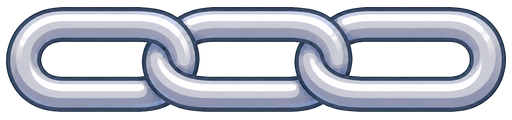
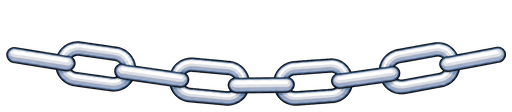
Use sagging seven-link shelf chains

diff --git a/docs/SCENES.md b/docs/SCENES.md
@@ -1692,7 +1692,8 @@ Script:
 
 Purpose:
 - Reusable visual owner instanced as `LockedOverlay` by both standard and dispenser shelves.
-- Draws four slim three-link arms from selected candidate A over a softened shelf shade. Every arm
+- Draws four instances of the selected seven-link C2-7A chain over a softened shelf shade. The art
+  alternates four crosswise and three front-facing links and includes a shallow baked sag. Every arm
   is fitted between an endpoint embedded beneath a side wall and an endpoint over the padlock
   shackle, with small authored per-arm slope differences instead of a perfectly mirrored X.
 - Layers the lock between the chain pairs: `BottomLeftArm` and `BottomRightArm` draw behind it while
@@ -1708,7 +1709,8 @@ Purpose:
 Important nodes:
 - `Shade`: shelf-local darkening layer whose horizontal bounds follow `overlay_half_width`.
 - `VisualRig/ChainRig/TopLeftArm`, `TopRightArm`, `BottomLeftArm`, and `BottomRightArm`: independently
-  fitted instances of `assets/ui/shelf_lock_chain_arm_a.png` running from wall anchors to the lock.
+  fitted instances of C2-7A at legacy path `assets/ui/shelf_lock_chain_arm_a.png`, running from wall
+  anchors to the lock.
 - `VisualRig/WallAttachmentCovers`: reusable left/right wood strips drawn above chain endpoints so
   terminal links disappear beneath the actual shelf frame.
 - `VisualRig/LockRig`: drawn between the bottom and top arm depth layers; contains the lock sprite
@@ -1717,7 +1719,8 @@ Important nodes:
   fitting contract as `AbilityBar/UsesLabel`, positioned above the chain intersection.
 
 Depends on:
-- `assets/ui/shelf_lock_chain_arm_a.png`, prepared from selected ImageGen candidate A with alpha.
+- `assets/ui/shelf_lock_chain_arm_a.png`, the legacy resource path containing selected ImageGen
+  C2-7A, prepared with the ImageGen skill's chroma-key helper and normalized to 512x112.
 - `assets/ui/lock_shelf_cutout.png` for the hanging orange padlock.
 - `assets/themes/style_box_gameplay_count_badge.tres` for the shared remaining-count presentation.
 - `scripts/ui_motion.gd` for replacement-safe tweens.

diff --git a/docs/SCRIPTS.md b/docs/SCRIPTS.md
@@ -1683,10 +1683,11 @@ Purpose:
   shelves, keeping those details out of `scripts/level.gd`.
 - Applies `overlay_half_width` to the shade and `compact_layout` to the chain, lock, and badge rig at
   `_ready()`.
-- Reuses selected candidate A as four independent three-link `Sprite2D` arms. It computes each
-  transform from a fixed wall endpoint and a lock-shackle endpoint, adds small per-arm slope
-  differences, configures overlay-owned wall covers from `overlay_half_width`, and layers the bottom
-  pair behind the lock while the top pair crosses in front.
+- Reuses selected seven-link C2-7A art as four independent `Sprite2D` arms. The texture alternates
+  crosswise/front-facing links and includes a shallow baked sag. The script computes each transform
+  from a fixed wall endpoint and a lock-shackle endpoint, adds small per-arm slope differences,
+  configures overlay-owned wall covers from `overlay_half_width`, and layers the bottom pair behind
+  the lock while the top pair crosses in front.
 - Keeps `AD` and the remaining count scene-native; the count uses the shared ability/inventory badge
   resource and `GameplayUITheme.COUNT_BADGE_*` fitting contract.
 

diff --git a/docs/PROJECT_MAP.md b/docs/PROJECT_MAP.md
@@ -600,14 +600,15 @@ Change here when:
 Files:
 - `scenes/ui/shelf_lock_overlay.tscn`
 - `scripts/shelf_lock_overlay.gd`
-- `assets/ui/shelf_lock_chain_arm_a.png`
+- `assets/ui/shelf_lock_chain_arm_a.png` (legacy path, selected C2-7A art)
 - `assets/ui/lock_shelf_cutout.png`
 - `tests/ui/test_shelf_lock_overlay.gd`
 
 Responsibility:
 - Reusable standard/compact visual component for every triple-gated shelf.
-- Fits four instances of selected three-link candidate A between slightly varied wall anchors and
-  lock-shackle anchors. Overlay-owned wall covers hide the terminal links beneath the shelf frame;
+- Fits four instances of the selected seven-link C2-7A chain between slightly varied wall anchors
+  and lock-shackle anchors. Its links alternate crosswise/front-facing and its baked shallow sag
+  keeps each arm from reading as a rigid line. Overlay-owned wall covers hide the terminal links;
   the bottom arms draw behind the orange `AD` lock, the top arms draw in front, and every arm stays
   behind the shared gameplay count badge.
 - On a recorded triple clear, pops the count, keeps every wall endpoint fixed while pulling the

diff --git a/docs/UI_003_LEVEL_UI_CONSISTENCY_TICKET.md b/docs/UI_003_LEVEL_UI_CONSISTENCY_TICKET.md
@@ -279,9 +279,10 @@ constraint for that component only:
 - `scenes/ui/shelf_lock_overlay.tscn` / `scripts/shelf_lock_overlay.gd` now own the extracted standard
   and compact lock overlay instead of duplicating nodes in both shelf scenes or keeping animation
   internals in `scripts/level.gd`.
-- The follow-up selected three-link candidate A, stored as `assets/ui/shelf_lock_chain_arm_a.png`,
-  replaces the heavier C2 strip. Four independent arms cross over the existing orange `AD` lock,
-  with remaining clears shown in the shared gameplay count badge.
+- The latest art pass stores selected seven-link C2-7A at the legacy
+  `assets/ui/shelf_lock_chain_arm_a.png` path. Each arm alternates four crosswise and three
+  front-facing links and carries a shallow baked sag; four independent arms layer around the
+  existing orange `AD` lock, with remaining clears in the shared gameplay count badge.
 - Decrements pop the count, tension each arm toward the lock, and swing the hanging lock. Reaching
   zero retracts the arms into their wall anchors and drops the lock while shelf eligibility still
   changes immediately.
